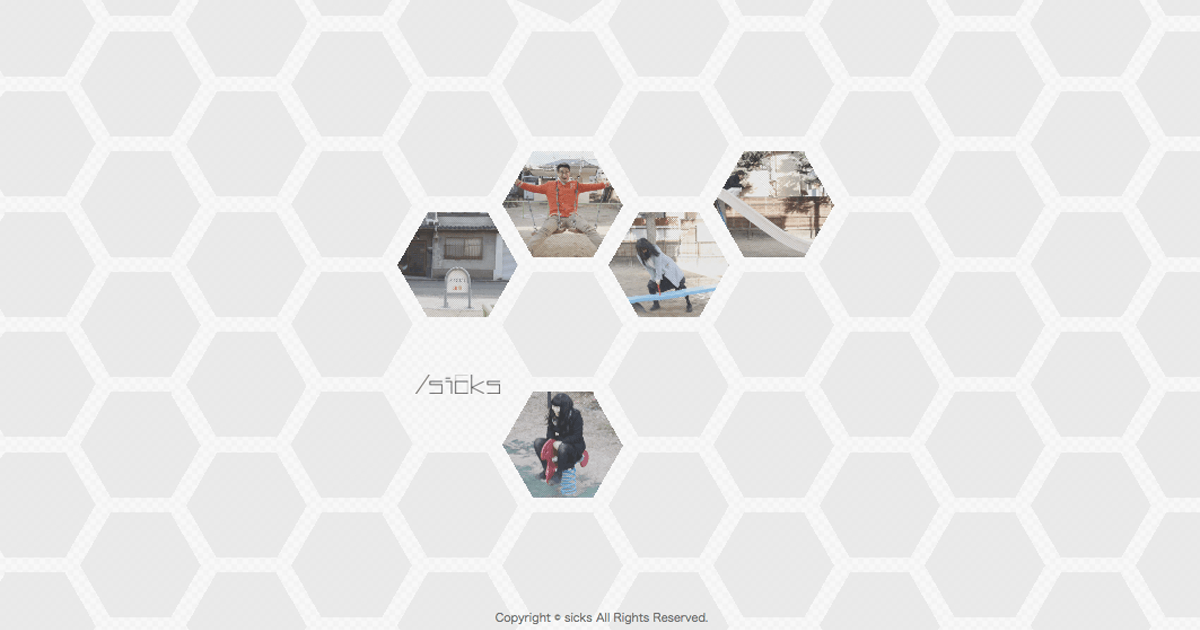
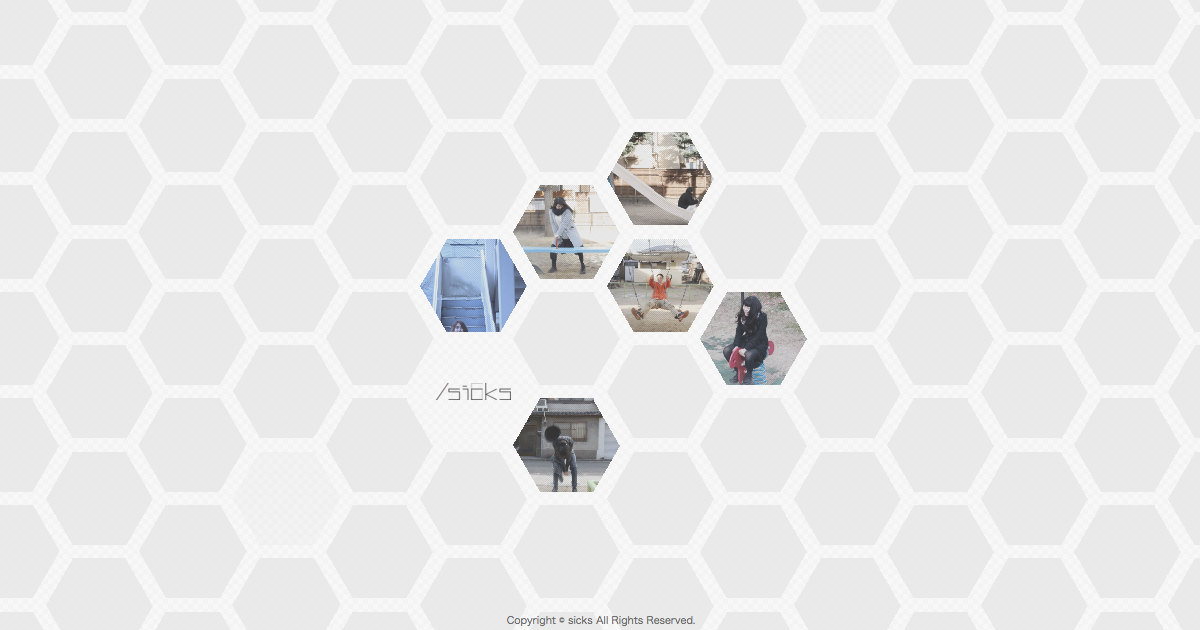
完成！

Changed region(s): [[0.3083, 0.2111, 0.7092, 0.6333], [0.3392, 0.6032, 0.5242, 0.8143], [0.4008, 0.9651, 0.5858, 0.9952]]

diff --git a/members/inoue/index.html b/members/inoue/index.html
@@ -52,25 +52,25 @@
     <div class="inner">
       <h2 class="section_title mgn-btm30 wow fadeIn" data-wow-duration="4s"><img src="./images/item-title.png" alt="ITEM"></h2>
       <dl class="item clearfix mgn-btm80 wow fadeIn" data-wow-duration="4s">
-        <dt class="item_img flt-lft"><img src="#" alt="image"></dt>
+        <dt class="item_img flt-lft"><img src="./images/c1.png" alt="image"></dt>
         <dd class="item_caption item-caption01 flt-lft">
           <h3 class="item_caption_title mgn-btm20"><img src="./images/item01-txt.png" alt="sign of idiot"></h3>
         </dd>
       </dl>
       <dl class="item clearfix mgn-btm80 wow fadeIn" data-wow-duration="4s">
-        <dt class="item_img flt-lft"><img src="#" alt="image"></dt>
+        <dt class="item_img flt-lft"><img src="./images/c2.png" alt="image"></dt>
         <dd class="item_caption item-caption02 flt-lft">
           <h3 class="item_caption_title mgn-btm20"><img src="./images/item02-txt.png" alt="banquet"></h3>
         </dd>
       </dl>
       <dl class="item clearfix mgn-btm80 wow fadeIn" data-wow-duration="4s">
-        <dt class="item_img flt-lft"><img src="#" alt="image"></dt>
+        <dt class="item_img flt-lft"><img src="./images/c3.png" alt="image"></dt>
         <dd class="item_caption item-caption03 flt-lft">
           <h3 class="item_caption_title mgn-btm20"><img src="./images/item03-txt.png" alt="the day when a lover died"></h3>
         </dd>
       </dl>
       <dl class="item clearfix mgn-btm80 wow fadeIn" data-wow-duration="4s">
-        <dt class="item_img flt-lft"><img src="#" alt="image"></dt>
+        <dt class="item_img flt-lft"><img src="./images/c4.png" alt="image"></dt>
         <dd class="item_caption item-caption04 flt-lft">
           <h3 class="item_caption_title mgn-btm20"><img src="./images/item04-txt.png" alt="fall down"></h3>
         </dd>
@@ -171,7 +171,7 @@
       <h2 class="section_title mgn-btm160 wow fadeIn" data-wow-duration="4s"><img src="./images/link-title.png" alt="LINK"></h2>
       <div class="link_btns clearfix">
         <div class="link_fb flt-lft wow fadeIn" data-wow-duration="4s" data-wow-delay=".4s"><a href="https://www.facebook.com/profile.php?id=100009761616264" target="_blank"><img src="./images/link_fb.png" alt="facebook"></a></div>
-        <div class="link_tw flt-lft wow fadeIn" data-wow-duration="4s" data-wow-delay=".6s"><a href="https://twitter.com/"><img src="./images/link_tw.png" alt="twitter"></a></div>
+        <div class="link_tw flt-lft wow fadeIn" data-wow-duration="4s" data-wow-delay=".6s"><a href="https://twitter.com/inoue_mayuko"><img src="./images/link_tw.png" alt="twitter"></a></div>
       </div>
     </div>
   </section>
@@ -181,7 +181,7 @@
     <div class="inner">
       <h2 class="section_title mgn-btm160 wow fadeIn" data-wow-duration="4s"><img src="./images/contact-title.png" alt="CONTACT"></h2>
       <p class="contact_txt mgn-btm50 wow fadeIn" data-wow-duration="4s">商品についてのお問い合わせ、アートワークのご依頼はこちらからよろしくお願いいたします。</p>
-      <div class="contact_btn wow fadeIn" data-wow-duration="4s"><a href="mailto:info@example.com?subject=問い合わせ"><img src="./images/contact_btn.png" alt="send a mail"></a></div>
+      <div class="contact_btn wow fadeIn" data-wow-duration="4s"><a href="mailto:myucoinue.com?subject=問い合わせ"><img src="./images/contact_btn.png" alt="send a mail"></a></div>
     </div>
   </section>
   <!-- /.contact_wrap -->

diff --git a/index.html b/index.html
@@ -141,7 +141,7 @@
             </div>
             <div class="member-txt"><h2 class="member-txt-genre">ART & DESIGN</h2><p class="member-txt-name">MARIKA<br>KITAO</p></div>
         </a></div>
-        <div class="hexagon">
+        <div class="hexagon cont5 cont"><a href="/members/inoue">
             <div class="hexTop"></div>
             <div class="hexBottom"></div>
             <div class="texture">
@@ -152,7 +152,8 @@
                 <div class="hexTop"></div>
             <div class="hexBottom"></div>
             </div>
-        </div>
+            <div class="member-txt"><h2 class="member-txt-genre">ART & DESIGN</h2><p class="member-txt-name">MAYUKO<br>INOUE</p></div>
+        </a></div>
     </div>
 </div>
 

diff --git a/members/inoue/css/style.css b/members/inoue/css/style.css
@@ -160,6 +160,9 @@ body{
   height: 250px;
   background: #fff;
 }
+.item_img img{
+  width: 100%;
+}
 
 /*howtobuy*/
 .howtobuy_wrap h3,.howtobuy_wrap .subtxt{
@@ -210,6 +213,7 @@ body{
 .link_tw{
   width: 100px;
   margin-left: 160px;
+  margin-top: 10px;
 }
 
 /*contact*/
@@ -264,6 +268,9 @@ body{
   }
   .item_img{
     margin-top: 50px;
+    width: 100%;
+    height: auto;
+    background: none;
   }
   .item_caption h3{
     width: 100%;

diff --git a/css/index.css b/css/index.css
@@ -399,6 +399,12 @@ body{
 .cont4:hover{
   background-image: url(../images/kitao_on.jpg);
 }
+.cont5{
+  background-image: url(../images/inoue.gif);
+}
+.cont5:hover{
+  background-image: url(../images/inoue_on.jpg);
+}
 
 /* 六角形カラースタイル */
 .color{
